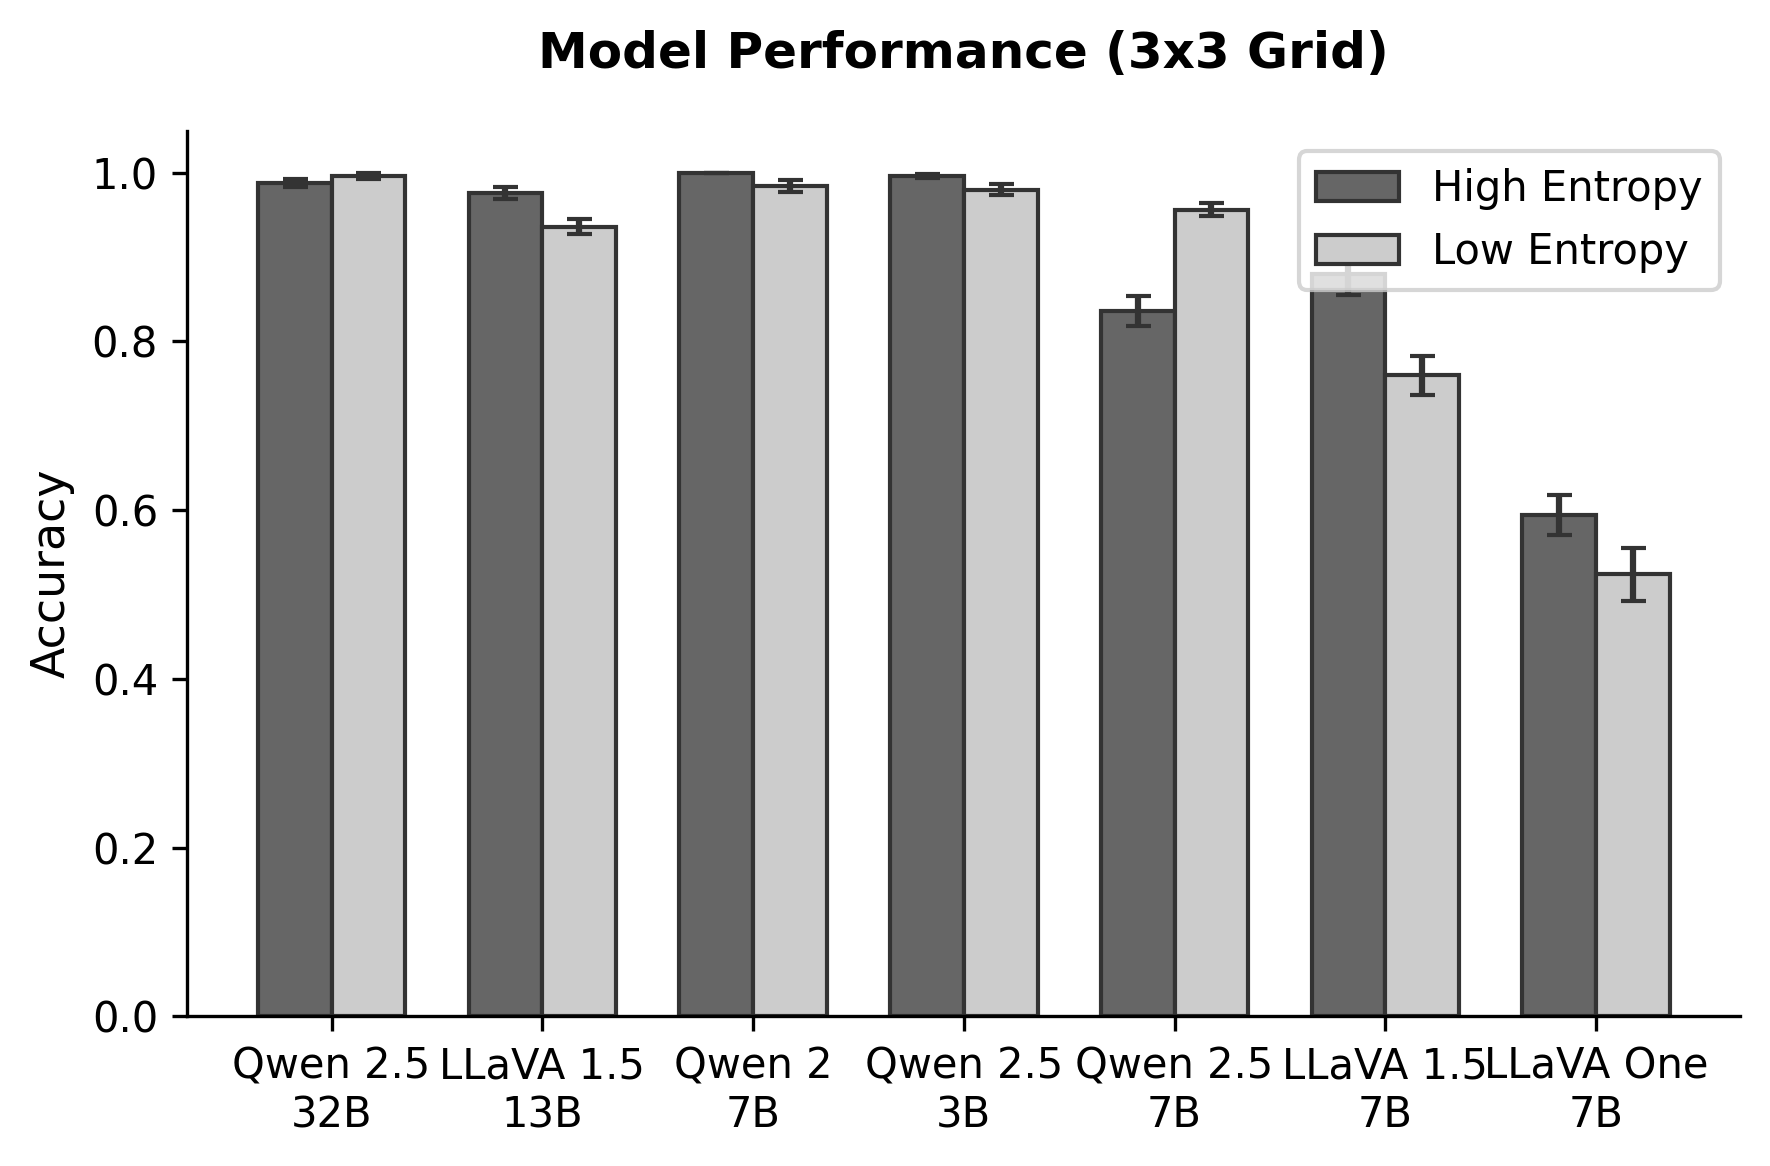
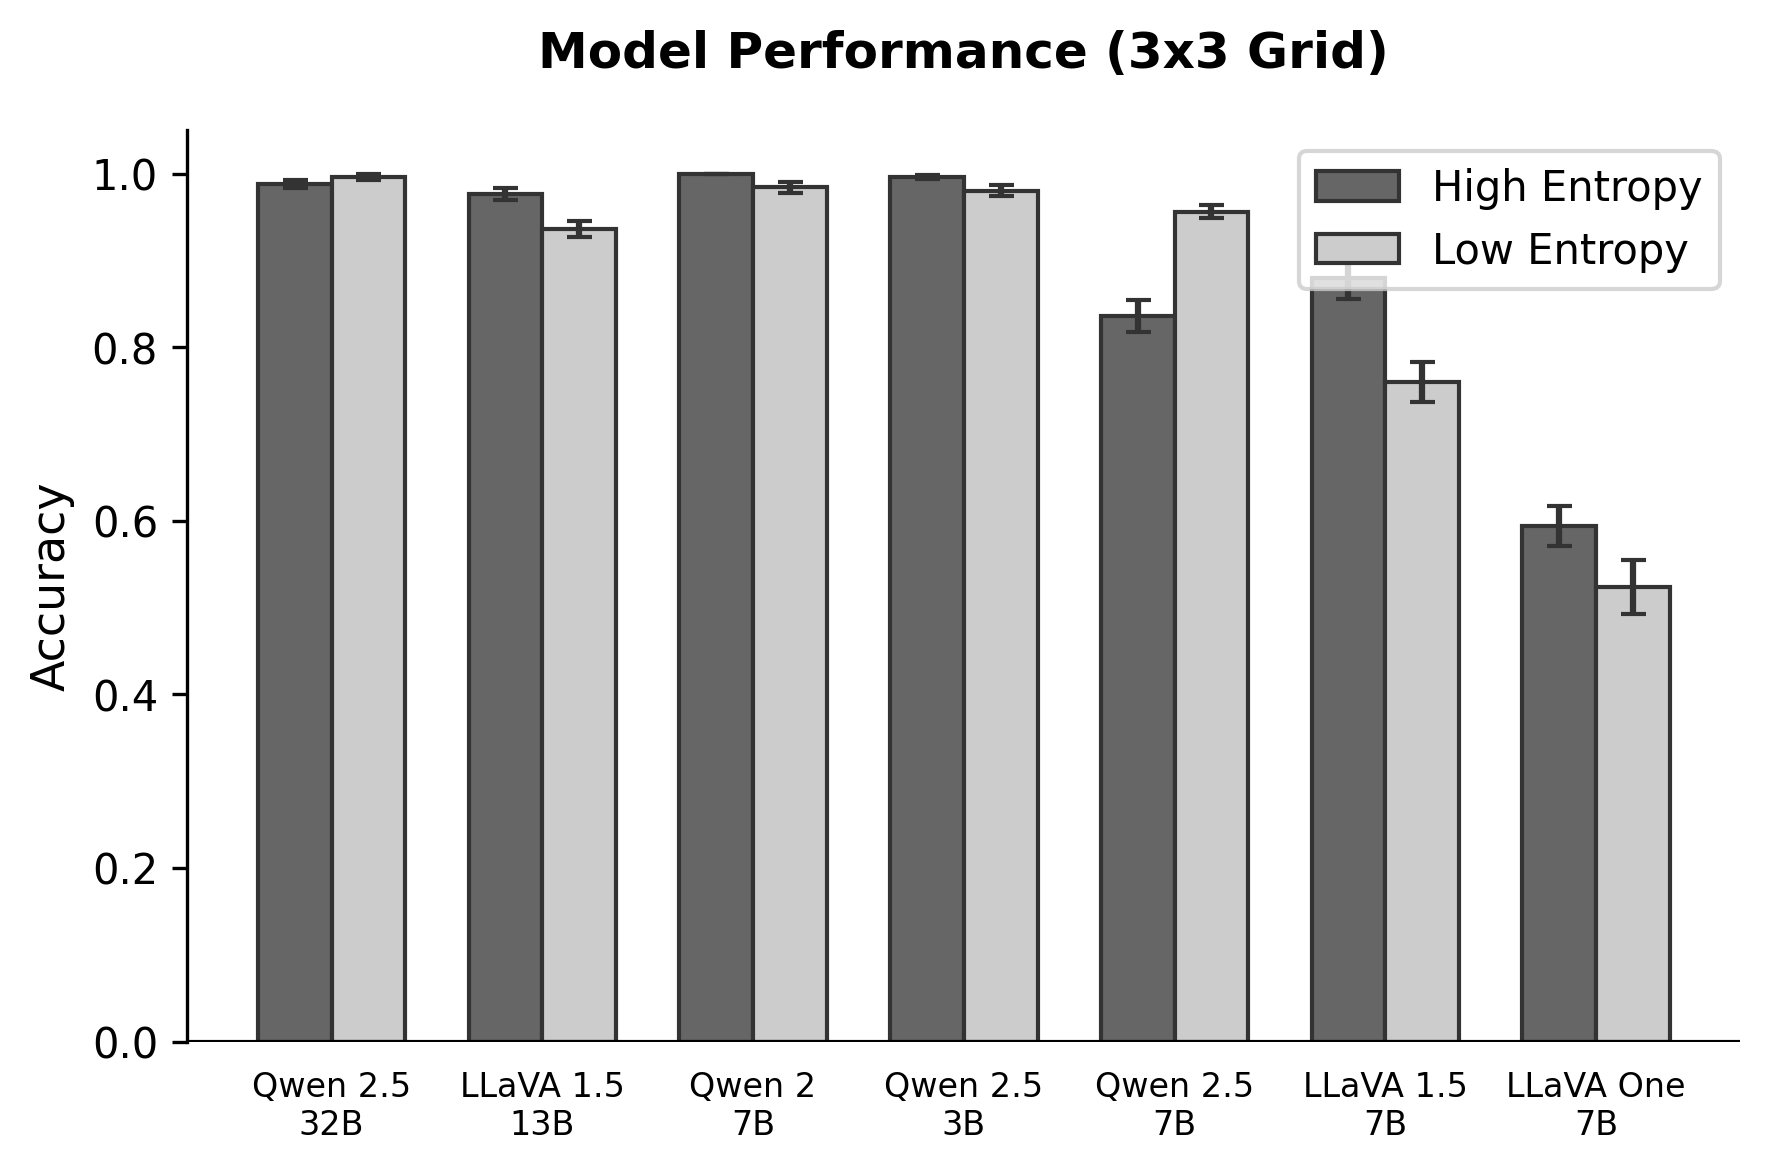
fig 7 format

diff --git a/src/plots/rsa_6_v2.py b/src/plots/rsa_6_v2.py
@@ -239,7 +239,10 @@ def plot_bar_chart(config, save_path):
     ax.set_ylabel(config['ylabel'], fontsize=11)
     ax.set_title(config['title'], fontweight='bold', fontsize=12, pad=15)
     ax.set_xticks(x)
-    ax.set_xticklabels(models)
+    ax.set_xticklabels(models, fontsize=8)
+    ax.spines['bottom'].set_visible(False)
+    ax.axhline(0, color='black', linewidth=1)
+    ax.tick_params(axis='x', bottom=False)
     ax.legend(loc='best')
     
     ax.spines['top'].set_visible(False)
